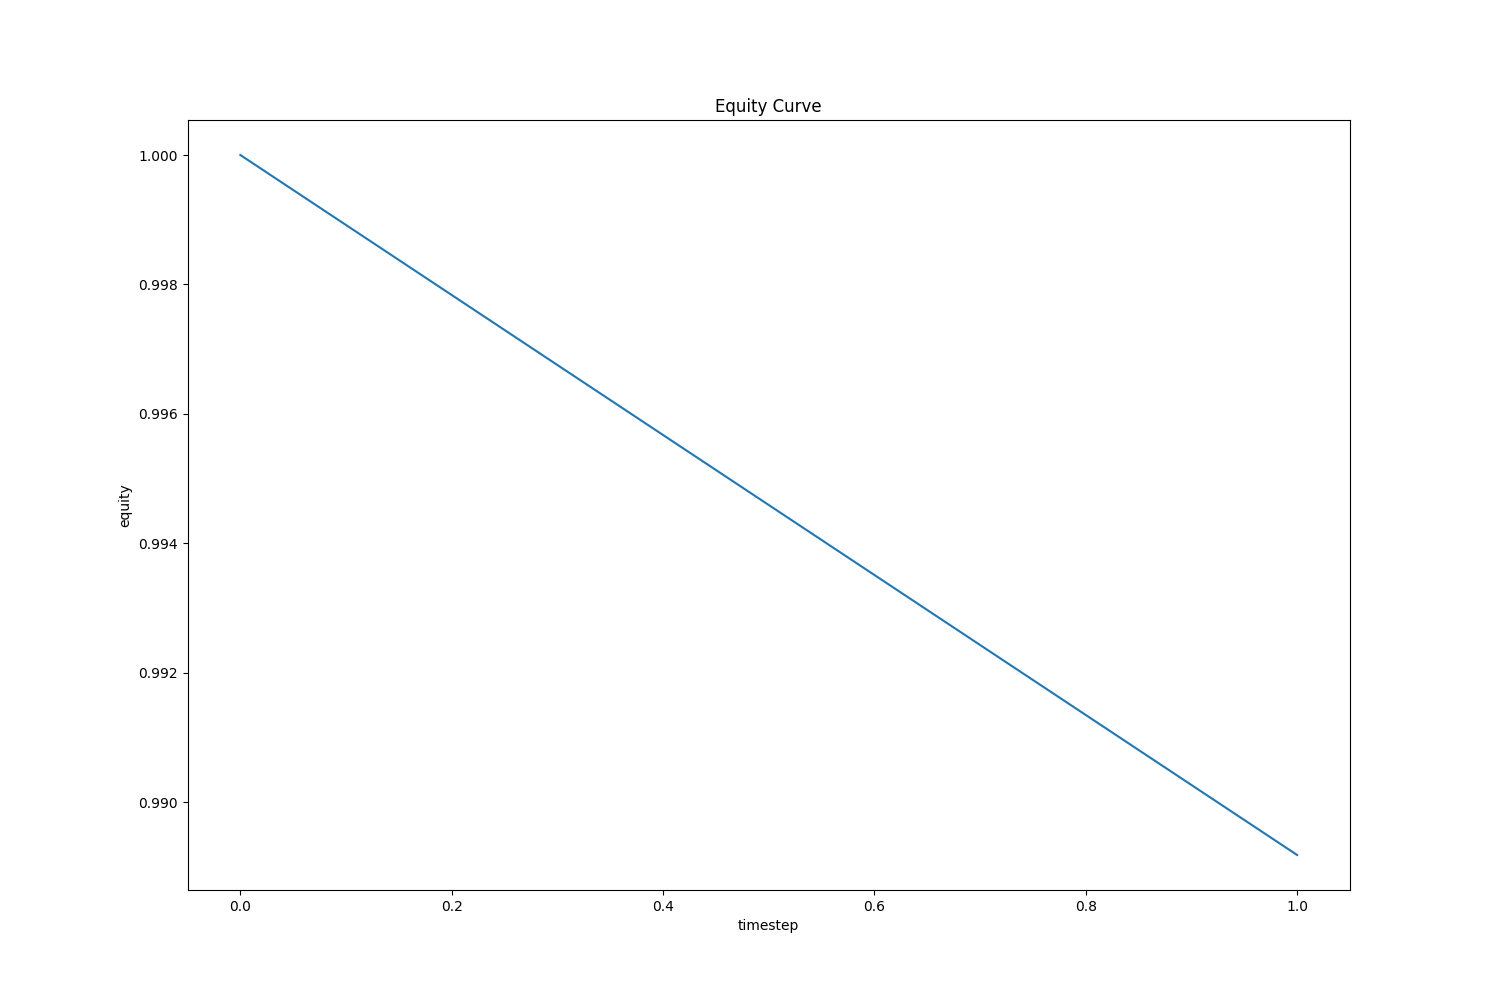
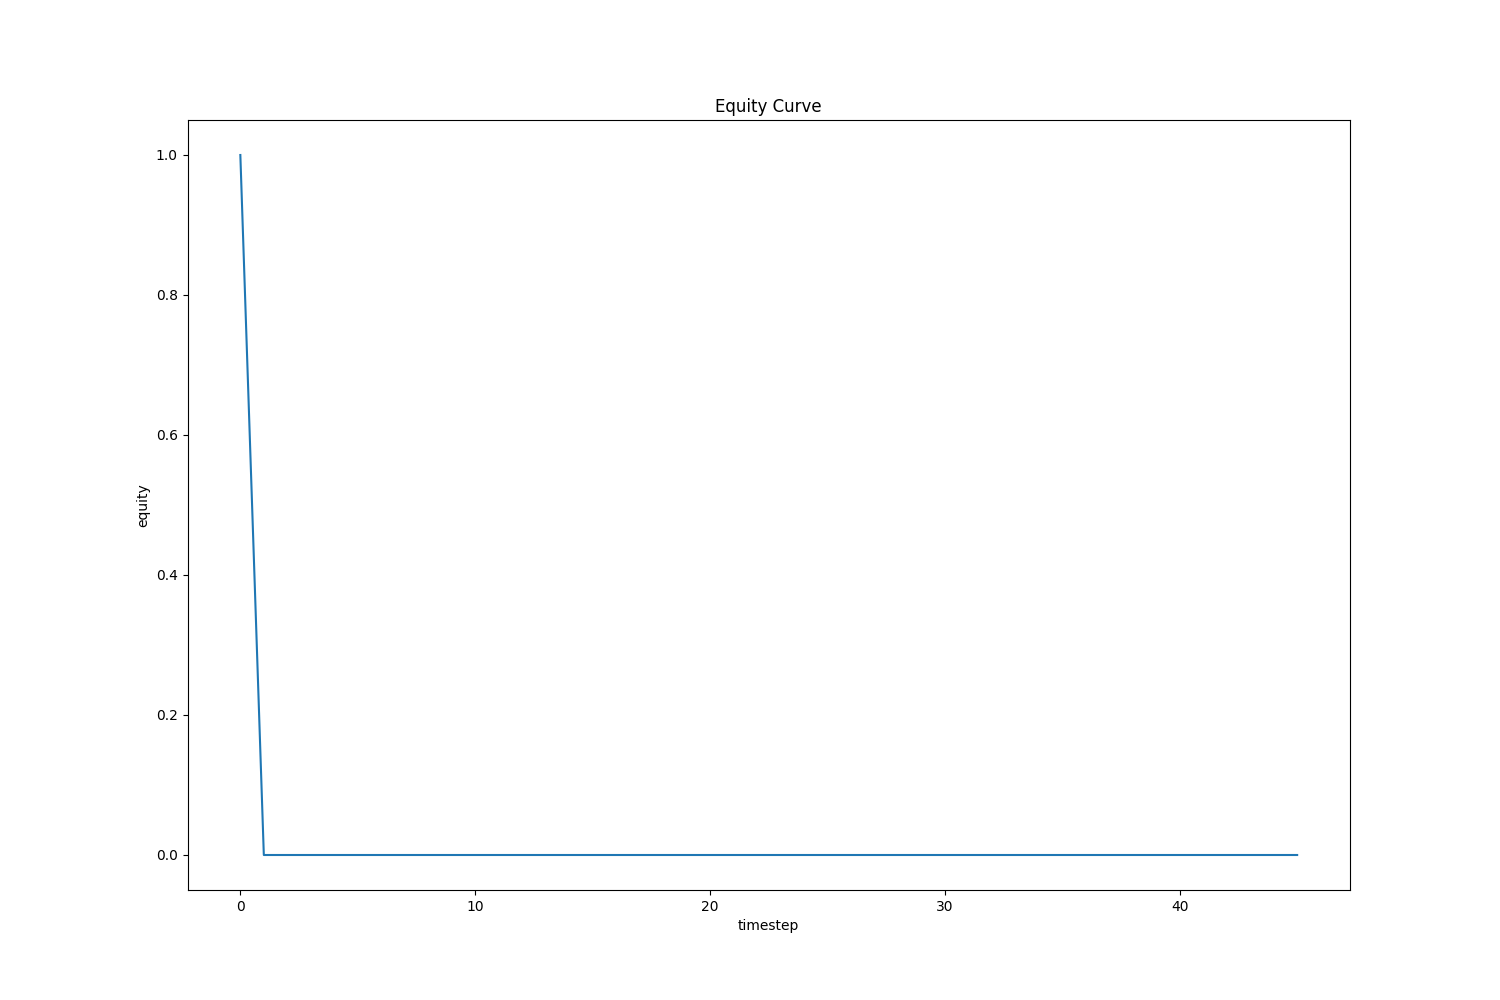
working nicely. need to debug why we are choosing the same option every time

diff --git a/main.py b/main.py
@@ -99,29 +99,48 @@ def trainmodel(model: PPO) -> PPO:
 # Close the TensorBoard server
     return model
 
-
-#evaluate the model
 def evaluate(X_test,y_test,model):
     equity = [1]
     last_action = 0
     trading_cost = 0.01
-    for i in range(5, X_test.shape[0]):
+    current_amount = 1000  # Initialize starting amount here
+    current_asset_amount = 0  # Initialize starting amount here
 
-        # print(f"Input data at step {i}:")
-        # print(X_test[i-5:i])
-        action, _ = model.predict(X_test[i-5:i], deterministic=True)
+    for i in range(5, X_test.shape[0]):
+        observation = np.append(X_test[i-5:i], [current_amount, current_asset_amount]).astype(np.float32)
+        action, _ = model.predict(observation, deterministic=True)
         print(f"choosing:{action}")
         currenty_test = y_test[i]
-        # print("action:",action,i)
-        if action == 0:
-            new = equity[-1] * (1 - (trading_cost if last_action != action else 0))
-        elif action == 1:
-            new = equity[-1] * (1 + currenty_test - (trading_cost if last_action != action else 0))
-        elif action == 2:
-            new = equity[-1] * (1 + -1 * currenty_test - (trading_cost if last_action != action else 0))
-    
-    equity.append(new)
-    last_action = action
+
+        amount = action[0]  # Extract the amount from the action
+
+        if amount > 0:  # Buying
+            if amount * (1 + trading_cost) > current_amount:
+                reward = -1  # Punishment
+            else:
+                change = (1 + currenty_test - trading_cost)
+                current_amount -= amount * change
+                current_asset_amount += amount
+                reward = np.log1p(change)
+        elif amount < 0:  # Selling
+            if abs(amount) > current_asset_amount:
+                reward = -1  # Punishment
+            else:
+                change = (1 + -1 * currenty_test - trading_cost)
+                current_amount -= amount * change  # Subtract because amount is negative
+                current_asset_amount += amount  # Add because amount is negative
+                reward = np.log1p(change)
+        elif amount == 0:  # Holding
+            change = 1
+            reward = np.log1p(change)
+        else:
+            raise ValueError("Received invalid action={} which is not part of the action space".format(action))
+
+        new = equity[-1] * (1 + reward)  # Calculate new equity value based on the reward
+        equity.append(new)
+        last_action = action
+
+
     plt.figure(figsize=(15, 10))
     plt.title("Equity Curve")
     plt.xlabel("timestep")
@@ -129,6 +148,7 @@ def evaluate(X_test,y_test,model):
     plt.plot(equity)
     plt.savefig("equity")
     plt.close()
+
 
 
 def main():
@@ -157,7 +177,7 @@ def main():
 
     # explore(env)
     model = load_model_or_create_if_not_exist("model",env)
-    model = trainmodel(model)
+    # model = trainmodel(model)
 
     evaluate(X_test,y_test,model)
 

diff --git a/Trading_Env.py b/Trading_Env.py
@@ -85,7 +85,7 @@ class TradingEnv(gym.Env):
         truncated = False  # You'll need to define this based on your environment's logic
         info = {}  # Empty info dictionary
         if(done):
-            print(f"Step: {self.current_step}, Action: {action}, Reward: {self.reward}, Cash: {self.current_amount}, Asset: {self.current_asset_amount} ")
+            print(f"Step: {self.current_step}, Action: {action}, Reward: {self.reward}, Cash: {self.current_amount}, Asset: {self.current_asset_amount}, Total: {self.current_amount+self.current_asset_amount} ")
 
         return observation, self.reward, done, truncated, info
 
